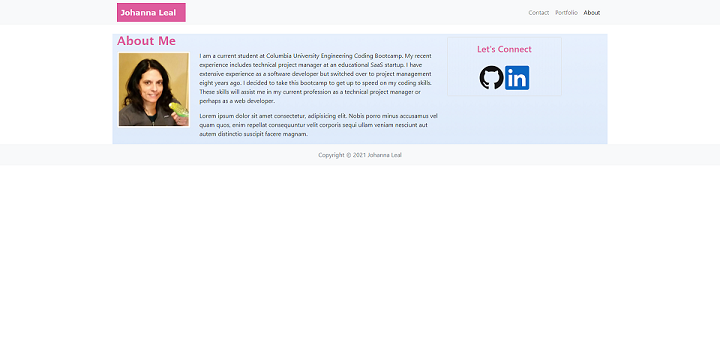
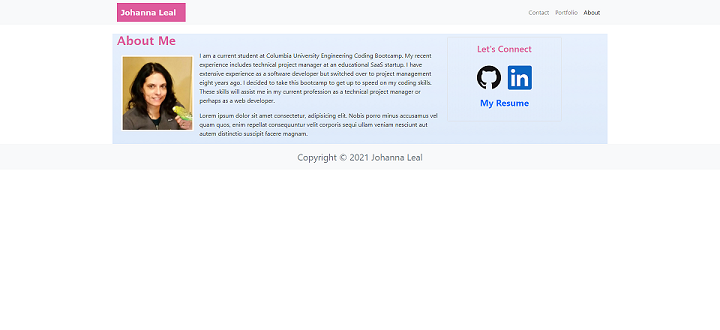
Updated Readme with resume link info

diff --git a/README.md b/README.md
@@ -7,7 +7,7 @@ In this homework, I updated my portfolio page from my responsive portfolio page 
 ## Functionality
 
 * Each page has a basic Bootstrap nav bar, page header, and responsive layout.
-* The index.html includes an image of me, a blurb about me, and sidebar with links to GitHub and LinkedIn.
+* The index.html includes an image of me, a blurb about me, and sidebar with links to GitHub, LinkedIn, and a link to download my resume in PDF format.
 * The portfolio.html page consists of screenshots of five projects that I have completed.
 * Each image is also a link to the deployed web page of each project.
 * The contact.html page contains several input fields and a submit button.
